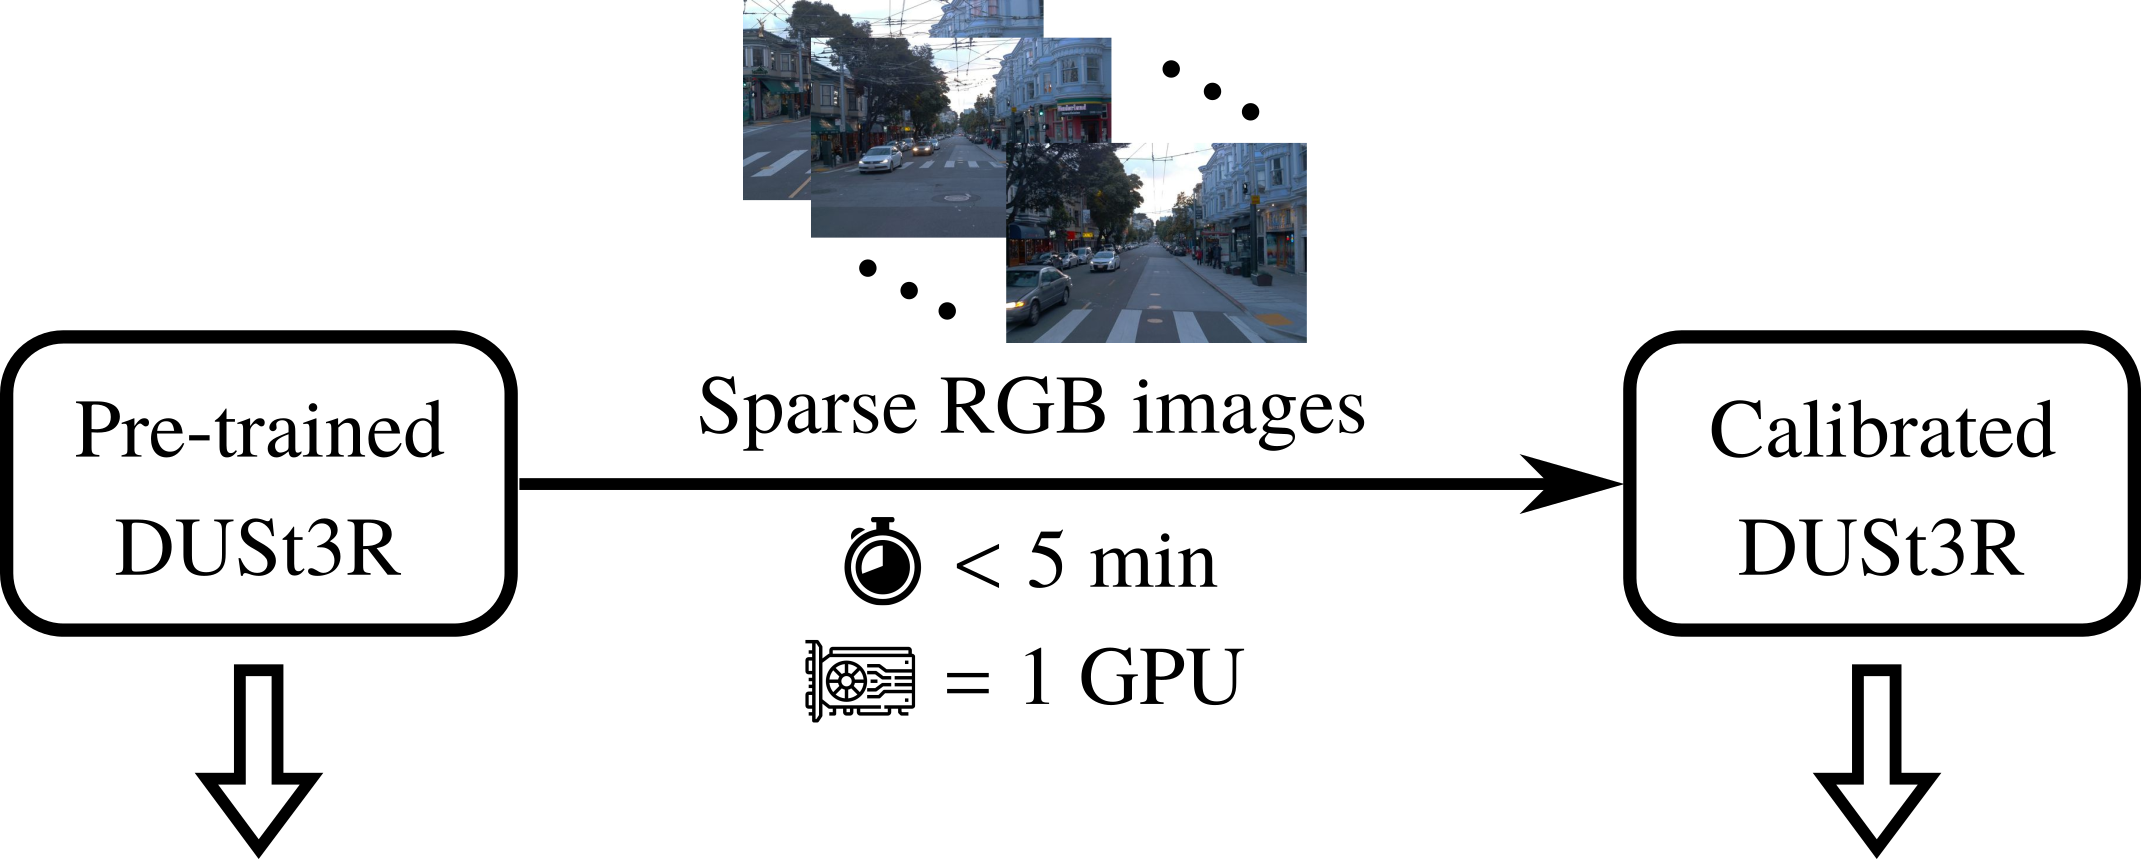
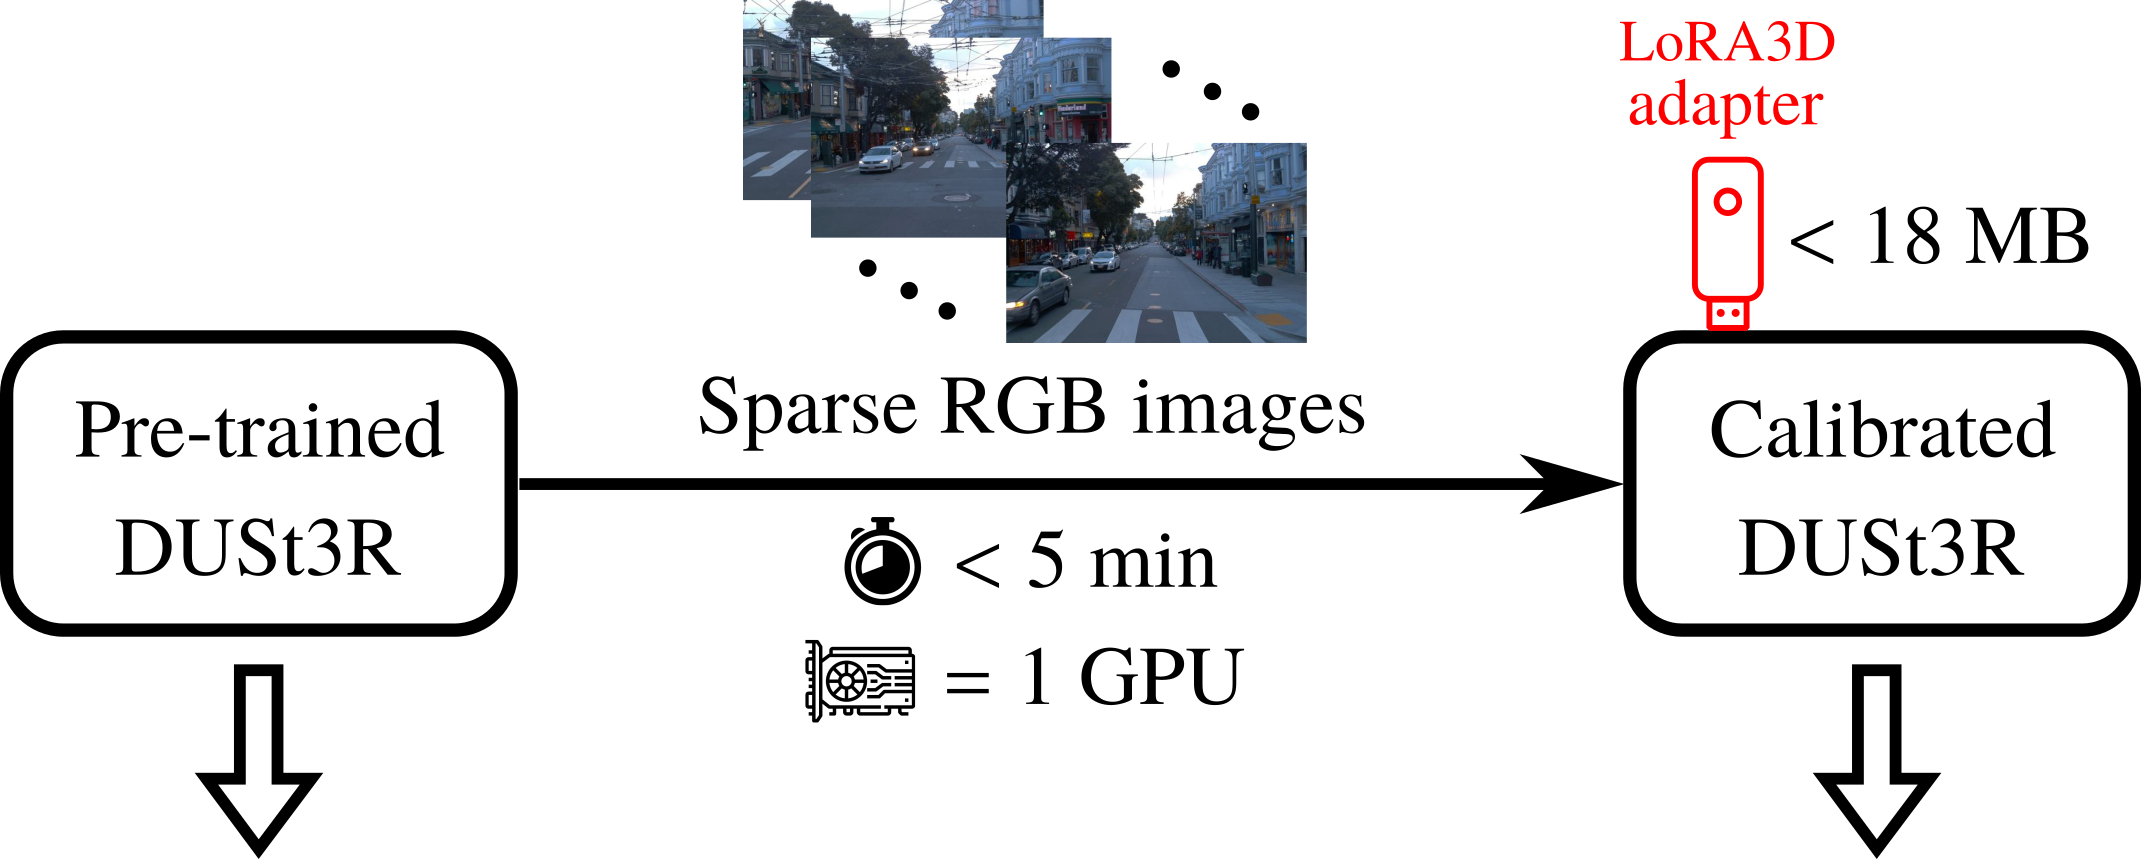
update lora3d fig1s

Changed region(s): [[0.7707, 0.1816, 0.9865, 0.3935], [0.7398, 0.0303, 0.8631, 0.1513]]

diff --git a/lora3d/index.html b/lora3d/index.html
@@ -262,7 +262,7 @@
       <div class="columns is-centered has-text-centered">
         <div class="column is-four-fifths">
             <p class="has-text-justified is-size-5">
-              <strong>TL;DR</strong>: 3D geometric foundation models (e.g. DUSt3R) can <strong>self-specialize</strong> to the target scene using <strong>just 10 uncalibrated images</strong> in under <strong>5 min</strong> on <strong>a single GPU</strong>.
+              <strong>TL;DR</strong>: 3D geometric foundation models (e.g. DUSt3R) use LoRA3D to <strong>self-specialize</strong> to the target scene using <strong>just 10 uncalibrated images</strong> in under <strong>5 min</strong> on <strong>a single GPU</strong>.
             </p>
           </div>
         </div>
@@ -366,8 +366,8 @@
             <div class="columns is-centered">
               <div class="column">
                 <p class="has-text-centered">
-                  The video showcases novel view rendering of a 3DGS model trained with only 10 input images using InstantSplat (DUSt3R initialized 3DGS training).
-                  The artifacts that remain after self-calibration are primarily caused by incomplete observation due to the sparse view observation.
+                  The videos show novel view renders of a 3DGS model trained with <em>only 10 input images</em> using <a href="https://instantsplat.github.io/">InstantSplat</a> (DUSt3R-initialized 3DGS training).
+                  The artifacts that remain after self-calibration are primarily caused by incomplete sparse view observation.
                 </p>
               </div>
             </div>
